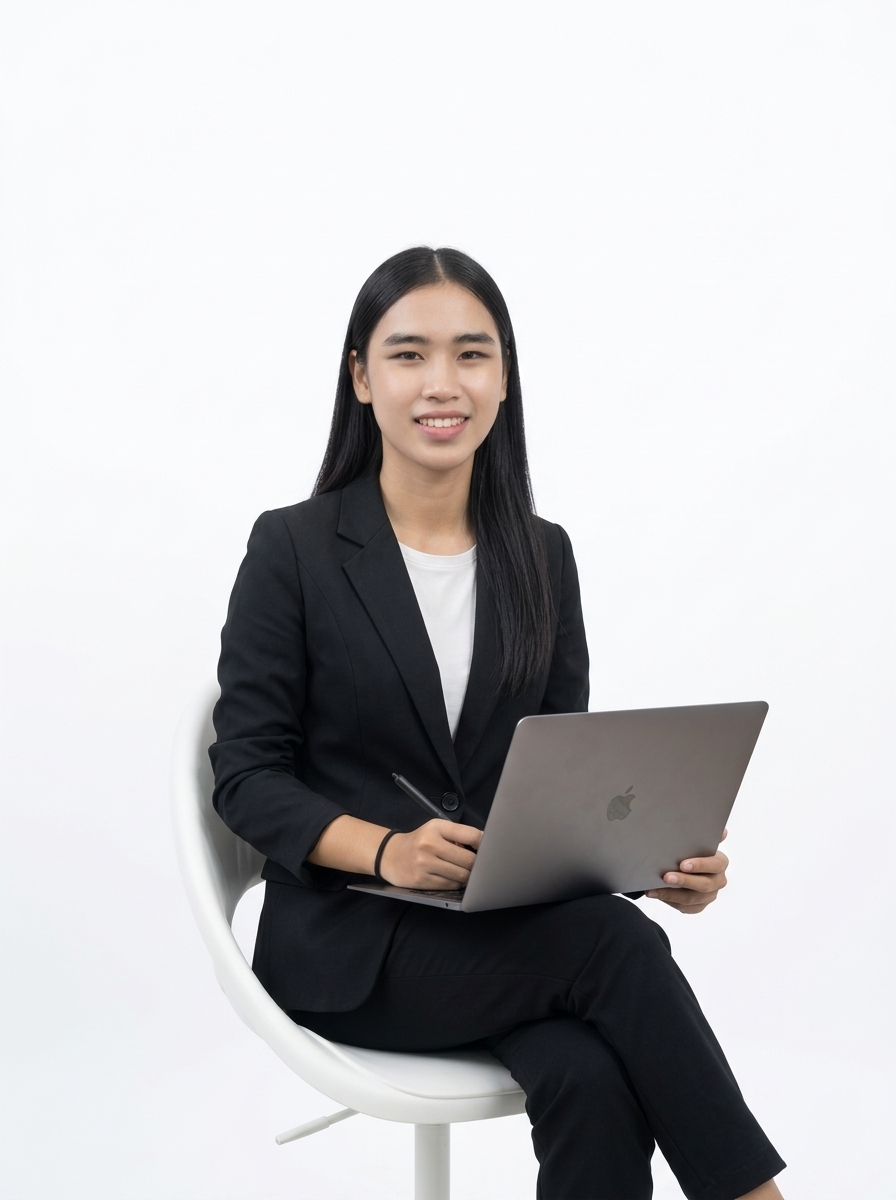
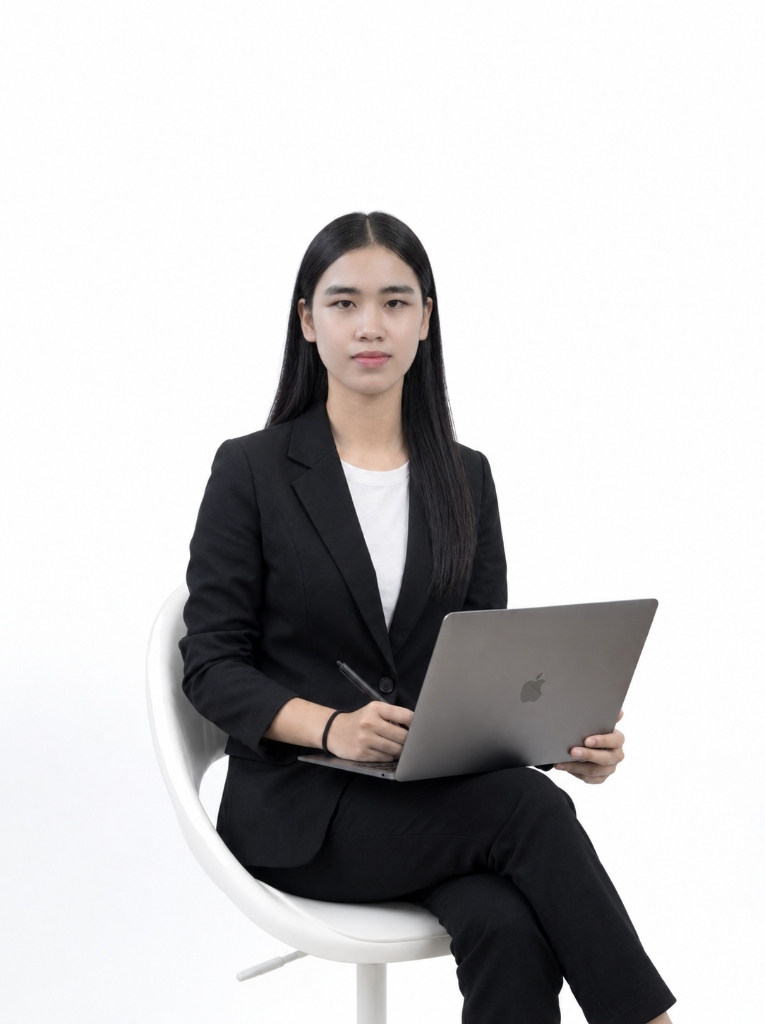
feat(profile): update deck.html profile images with user's real seated laptop portrait and standing drawing tablet portrait

diff --git a/deck.js b/deck.js
@@ -64,7 +64,7 @@ document.addEventListener('DOMContentLoaded', () => {
   // 15 Presentation Slides Metadata for Figma/Keynote Filmstrip Tray
   const filmstripData = [
     { num: 1, title: 'MY PORT-FOLIO 2026', cat: 'TITLE', thumb: './assets/profile/pauv_presenter_cutout.png' },
-    { num: 2, title: 'About Pauv Soneasa', cat: 'BIO & LEADERSHIP', thumb: './assets/profile/pauv_standing_bw.png' },
+    { num: 2, title: 'About Pauv Soneasa', cat: 'BIO & LEADERSHIP', thumb: './assets/profile/pauv_standing_cutout.png' },
     { num: 3, title: 'Commercial Campaigns', cat: 'CAMPAIGN', thumb: './assets/images/my-artwork/thumbs/cheese_corn_portrait_01.jpg' },
     { num: 4, title: 'Product Photography', cat: 'PHOTO & RETOUCH', thumb: './assets/images/my-artwork/thumbs/cheese_corn_landscape_01.jpg' },
     { num: 5, title: 'Competitions & Honors', cat: 'AWARDS & STEM', thumb: './assets/images/competitions/thumbs/robotic_img_7829.jpg' },

diff --git a/deck.html b/deck.html
@@ -157,7 +157,7 @@
     </div>
 
     <div class="about-photo-wrap">
-      <img src="./assets/profile/pauv_standing_bw.png" alt="Pauv Soneasa Standing with Tablet" loading="lazy">
+      <img src="./assets/profile/pauv_standing_cutout.png" alt="Pauv Soneasa Standing with Tablet" loading="lazy">
     </div>
 
     <div class="about-text-wrap">
